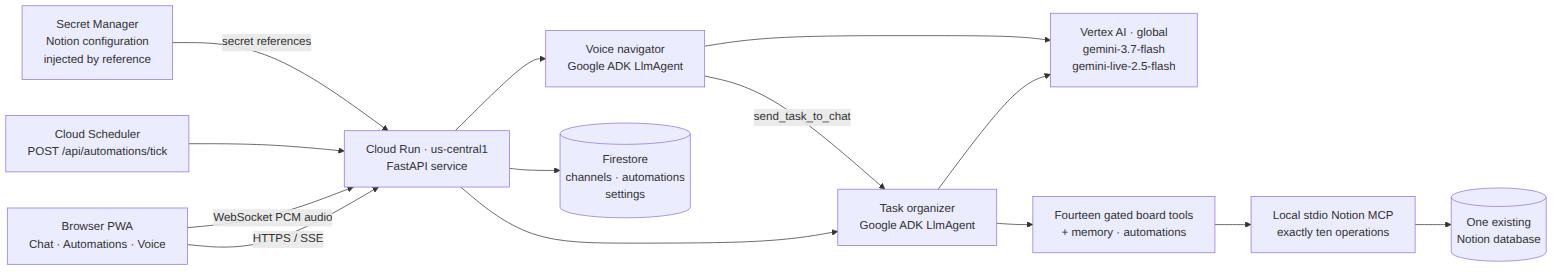
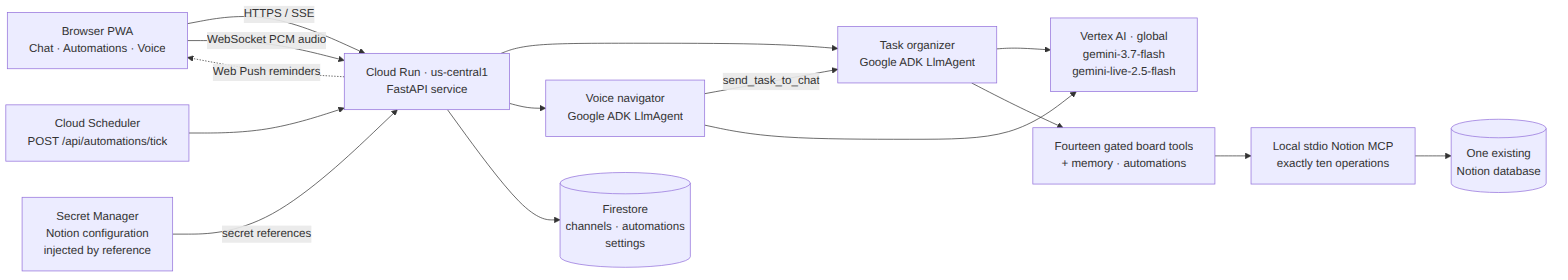
Update all docs for five-minute tick, Reminder date column, and Web Push
- README: scheduler bullet now documents the */5 cadence and that a due
  reminder rings within five minutes; reminder bullet covers the Reminder
  date column, push notification, ⏰ comment, and clear-on-fire.
- Devpost draft: five full-screen settings sections including
  Notifications; Web Push delivery in What-it-does and How-we-built-it.
- NOTION-SETUP / SETUP-NOTION-FROM-SCRATCH: optional Reminder (Date)
  column documented, cleared again when reminders fire.
- SECURITY: 2026-08-28 update covering the Settings-pasted Notion secret,
  the VAPID key pair, and the capped push subscription list.
- architecture.md + regenerated diagrams: Web Push edge from the API to
  the browser, settings contents, and the reminder fire sequence.

Claude-Session: https://claude.ai/code/session_01Uvbmgdjp2rN3xwsusx83ug

diff --git a/docs/DEVPOST-DRAFT.md b/docs/DEVPOST-DRAFT.md
@@ -71,7 +71,7 @@ it to condense, not accumulate), and "forget everything" wipes it — a clean
 handover for the next owner. Only what the user explicitly asks to keep is
 stored.
 
-**A settings hub that owns the whole configuration.** Settings opens as four
+**A settings hub that owns the whole configuration.** Settings opens as five
 full-screen sections. *Agent memory* shows everything the agent knows as one
 editable field. *Model setup* holds the device-local Gemini API key — kept
 only in that browser's `localStorage`, riding each request as a header,
@@ -81,7 +81,8 @@ call; with no key the app runs on the server's own Vertex AI credentials.
 *Live agent* chooses the voice, its language (Automatic follows whatever
 language is spoken, constrained to the languages the user names) and the
 navigator's instructions — role, style and operating rules in one editable
-text, so no behavioral rule is hardcoded. *Notion integration* connects the app to
+text, so no behavioral rule is hardcoded. *Notifications* enrolls the device
+for Web Push, so due reminders ring it directly. *Notion integration* connects the app to
 any board from the UI: paste the integration secret and the database ID — a
 visual guide shows exactly where in the board's URL the ID lives — and Save
 validates the board with one read before switching. Every prompt, including
@@ -112,6 +113,9 @@ follow-the-system themes, responsive from desktop to mobile.
   database; startup discovery validates the exact tool set and fails closed
   on drift. Workspace-wide search is on the forbidden-operation list, so the
   app can never see past the one board shared with its integration.
+- Web Push rides the PWA's service worker: the app generates its own VAPID
+  identity once, keeps it in settings, and the scheduler tick notifies every
+  enrolled device when a reminder is due — pruning subscriptions that died.
 - Firestore persists channels, automation records and triggers, and settings.
 - The Notion token arrives through a Secret Manager reference, never an
   environment literal in a command or manifest, and is never placed in a

diff --git a/docs/SECURITY.md b/docs/SECURITY.md
@@ -19,6 +19,17 @@ party — and no server endpoint echoes a key or even whether one exists. A key
 stored by an older build in Firestore is scrubbed at boot, and the settings
 API silently ignores any `gemini_api_key` an old client sends.
 
+## Update — 2026-08-28
+
+Three stored items were added since the review above; none widens what a
+browser can read:
+
+| Item | Where it lives | Notes |
+|---|---|---|
+| Notion secret pasted in Settings | Firestore settings document | Write-only: validated with one board read, never echoed to any browser (the field shows stand-in dots). Clearing it falls back to the Secret Manager secret. |
+| Web Push VAPID private key | Firestore settings document | Generated once by the app; signs outgoing push messages only. The public half is served at `/api/push/key`. |
+| Push subscriptions | Firestore settings document | Browser push endpoints plus their public encryption keys — capped at five, pruned when a push endpoint reports the subscription gone. |
+
 ## Verified clean
 
 - **Secret scan** over the working tree and the *entire git history*

diff --git a/docs/architecture.md b/docs/architecture.md
@@ -22,6 +22,7 @@ flowchart LR
 
     B -->|HTTPS / SSE| API
     B -->|WebSocket PCM audio| API
+    API -.->|Web Push reminders| B
     C --> API
     S -->|secret references| API
     API --> A
@@ -72,5 +73,9 @@ secret references, never as literal environment values. Access is limited to the
 compute runtime identity with `roles/secretmanager.secretAccessor`.
 
 Firestore runs in Native mode and stores durable browser channels, automation
-records with their structured triggers, and settings. This document reflects
-the live release topology.
+records with their structured triggers, and settings — including pending
+reminders, the app's Web Push identity, and the enrolled push subscriptions.
+The scheduler tick (every five minutes) fires due automations and reminders;
+a due reminder notifies every enrolled device over Web Push, leaves a ⏰
+comment on its task, and clears the board's Reminder column. This document
+reflects the live release topology.

diff --git a/README.md b/README.md
@@ -135,7 +135,7 @@ The approved deployment is live at the URL above. Its runtime provides:
 - one dedicated writable Cloud Storage volume mounted at `/knowledge` for Markdown bodies;
 - `NOTION_TOKEN` and `NOTION_TASKS_DATABASE_ID` through approved secret references, never environment literals in a command or manifest;
 - `TASK_STORE_MODE=notion`, `GOOGLE_GENAI_USE_VERTEXAI=true`, and `CORONER_MODEL=gemini-3.7-flash`;
-- a Cloud Scheduler job targeting `POST /api/automations/tick`, which fires any automation whose `next_run_at` has arrived and any task reminder whose time has come; reminder precision equals the scheduler interval.
+- a Cloud Scheduler job (`*/5 * * * *`) targeting `POST /api/automations/tick`, which fires any automation whose `next_run_at` has arrived and any task reminder whose time has come — so a due reminder rings within five minutes.
 
 Building an image locally is non-deploying:
 

diff --git a/docs/NOTION-SETUP.md b/docs/NOTION-SETUP.md
@@ -23,7 +23,8 @@ The database schema is authoritative and must not be mutated:
 | `Notes` | rich_text | optional free detail, up to 2,000 characters per adapter write |
 
 A `Reminder` (date) column is optional too: when the board has one, timed
-reminders land there as real dates instead of page text.
+reminders land there as real dates instead of page text, and are cleared
+again when they fire.
 
 `create_task` defaults Status to `Not started` and may set all optional fields.
 `list_tasks` returns every field and may filter by one exact Status.

diff --git a/docs/SETUP-NOTION-FROM-SCRATCH.md b/docs/SETUP-NOTION-FROM-SCRATCH.md
@@ -29,7 +29,9 @@ five minutes.
    | `Place` | Select |
    | `Minutes` | Number |
 
-   A `Notes` (Rich text) column is optional; the app detects whether it exists.
+   Two more columns are optional; the app detects whether they exist:
+   `Notes` (Rich text) for free detail, and `Reminder` (Date) — timed
+   reminders land there and are cleared when they fire.
 
 ## 3. Share the database with the integration
 
